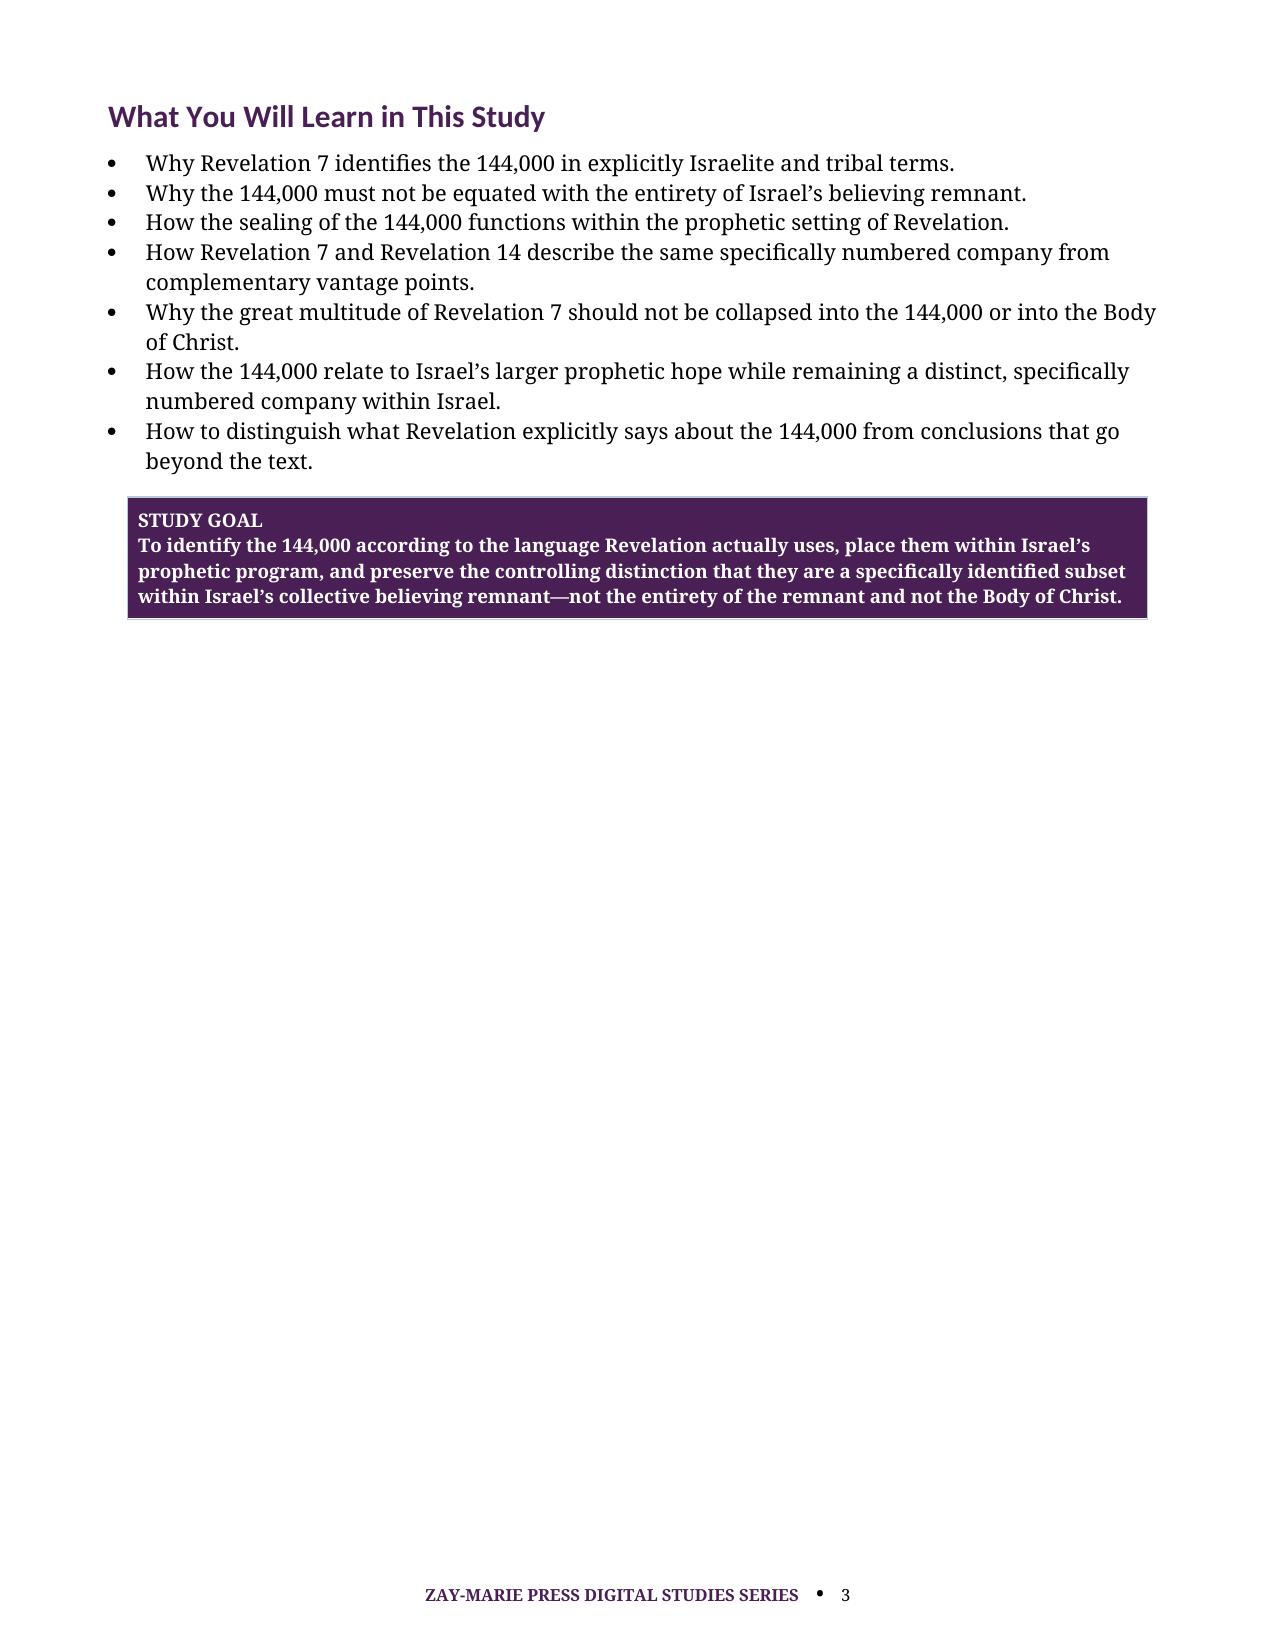
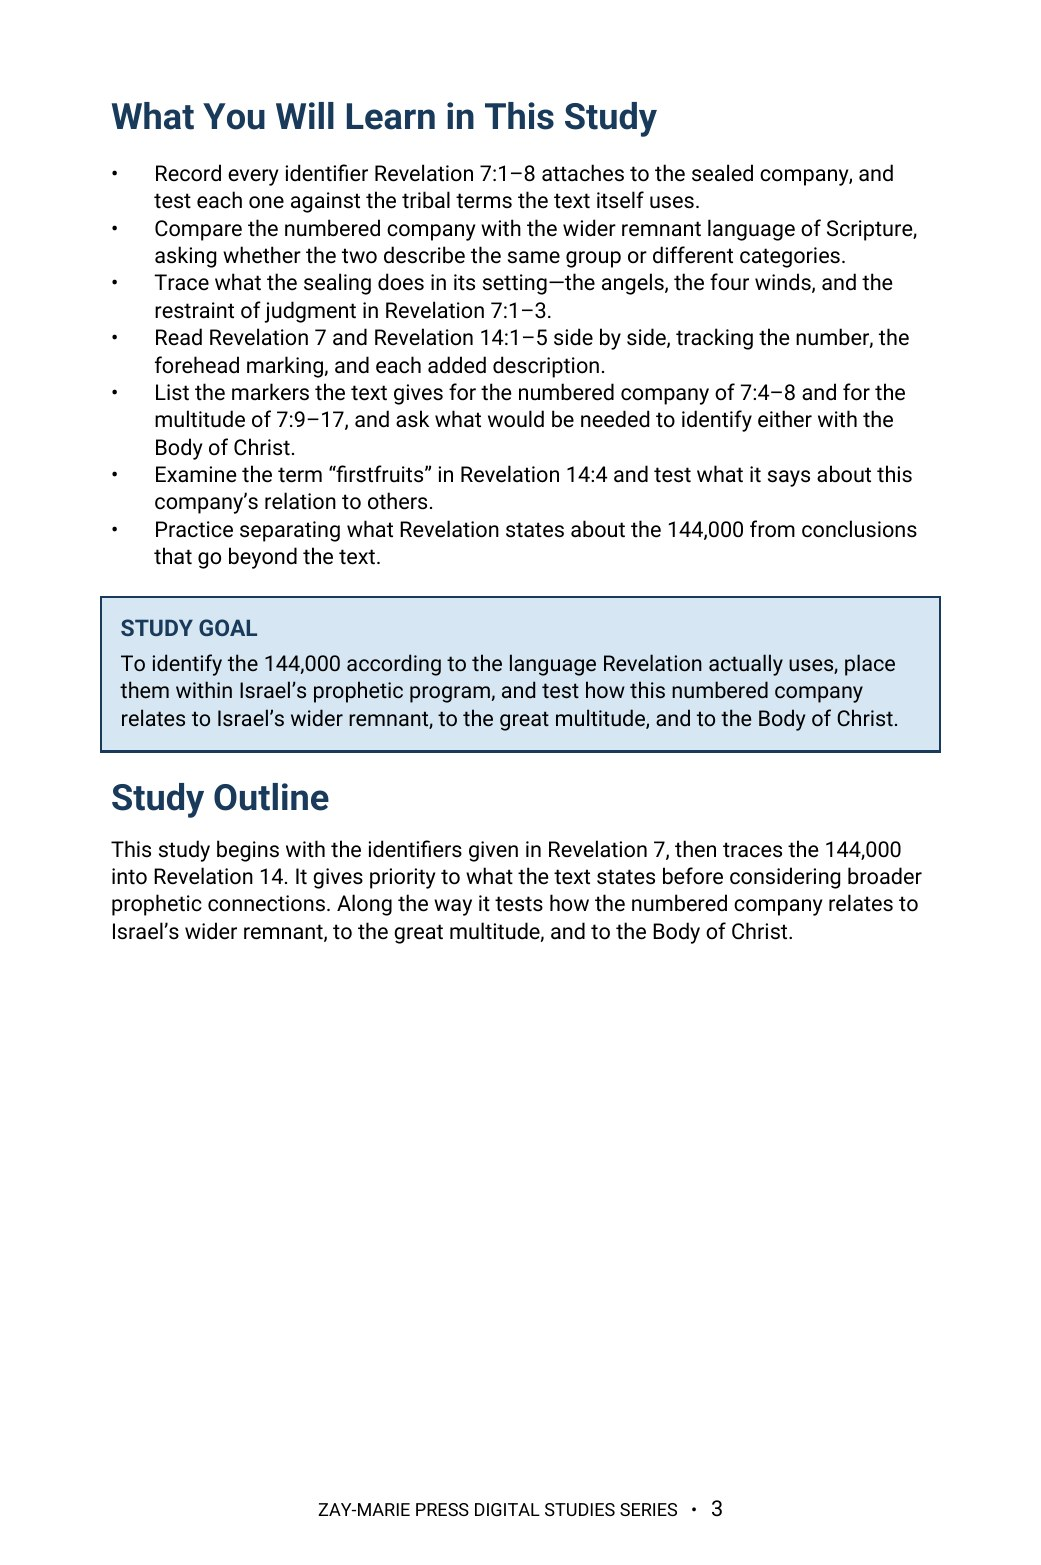
Study 23: Roboto rebuild, approved Study 61 pointer, website cover (jpg+webp), three previews, 16 pages; tracker v1.52
Claude-Session: https://claude.ai/code/session_01TLNFW47XCW6YAMUxScR3v4

Changed region(s): [[0.0922, 0.0613, 0.9222, 0.6134], [0.3074, 0.9508, 0.6455, 0.9815]]

diff --git a/study-23-the-144000.html b/study-23-the-144000.html
@@ -14,7 +14,7 @@
   <body class="study-detail-page">
     <header class="site-header"><div class="wrap nav"><a class="logo" href="index.html" aria-label="Zay-Marie Press home"><img src="assets/zay-marie-press-logo-hq.png" alt="Zay-Marie Press" width="420" height="238" /></a><button class="menu-toggle" type="button" aria-expanded="false" aria-controls="primary-nav">MENU</button><nav aria-label="Primary navigation" class="primary-nav" id="primary-nav"><a href="index.html">HOME</a><a href="books.html">BOOKS</a><a href="series.html">SERIES</a><a class="active" aria-current="page" href="digital-studies.html">DIGITAL STUDIES</a><a href="biblical-hermeneutics-course.html">COURSE</a><a href="about.html">ABOUT</a><a href="resources.html">RESOURCES</a><a href="contact.html">CONTACT</a></nav></div></header>
     <main>
-      <section class="detail-hero"><div class="wrap detail-hero-grid"><div class="detail-cover"><img src="assets/study-23-cover.jpg" alt="The 144,000 - Study 23 cover" /></div><div><div class="eyebrow">STUDY 23 · DIGITAL STUDY</div><h1>The 144,000</h1><p class="detail-subtitle">Israel’s Sealed Servants in God’s Prophetic Program</p><p class="detail-kicker">A Biblical Study of Revelation’s Tribal Identification, Sealing, and Distinct Companies</p><p class="detail-copy">Revelation identifies the 144,000 with unusual precision: a numbered company sealed from the tribes of the children of Israel. Their tribal identity, sealing, and later appearance with the Lamb belong within Israel’s prophetic program.</p><p class="detail-copy">This study follows Revelation 7 and 14 to distinguish the 144,000 from Israel’s larger believing remnant, the great multitude, and the Body of Christ. It lets Revelation’s own labels govern the conclusion.</p><div class="detail-buyline"><span class="detail-price">$5.99</span><span class="detail-format">Digital PDF · 15 Pages</span><span class="detail-button pending" aria-disabled="true">Checkout Coming Soon</span></div></div></div></section>
+      <section class="detail-hero"><div class="wrap detail-hero-grid"><div class="detail-cover"><picture><source srcset="assets/study-23-cover.webp" type="image/webp"><img src="assets/study-23-cover.jpg" alt="The 144,000 - Study 23 cover" /></picture></div><div><div class="eyebrow">STUDY 23 · DIGITAL STUDY</div><h1>The 144,000</h1><p class="detail-subtitle">Israel’s Sealed Servants in God’s Prophetic Program</p><p class="detail-kicker">A Biblical Study of Revelation’s Tribal Identification, Sealing, and Distinct Companies</p><p class="detail-copy">Revelation identifies the 144,000 with unusual precision: a numbered company sealed from the tribes of the children of Israel. Their tribal identity, sealing, and later appearance with the Lamb belong within Israel’s prophetic program.</p><p class="detail-copy">This study follows Revelation 7 and 14 to distinguish the 144,000 from Israel’s larger believing remnant, the great multitude, and the Body of Christ. It lets Revelation’s own labels govern the conclusion.</p><div class="detail-buyline"><span class="detail-price">$5.99</span><span class="detail-format">Digital PDF · 16 Pages</span><span class="detail-button pending" aria-disabled="true">Checkout Coming Soon</span></div></div></div></section>
       <section class="detail-section"><div class="wrap"><div class="eyebrow">ABOUT THIS STUDY</div><h2>Who Are the 144,000?</h2><p class="lead">The 144,000 are neither the entirety of Israel’s believing remnant nor a symbolic title for the Body of Christ. Revelation identifies them as a specific, numbered, sealed company from Israel’s tribes.</p><p class="lead">By tracing each explicit marker—tribes, number, seal, company, Lamb, Mount Sion, firstfruits, and faultlessness—the study preserves their place within Israel’s prophetic hope without assigning to them more than Scripture states.</p><p class="lead">This is not a study of Israel’s believing remnant generally, which Study 9 follows across her whole history, nor of Revelation’s seven churches and their own setting, which Study 26 examines first. Its task is narrower: to ask what a specific, numbered, sealed company can be shown to be from the text alone, and to keep that one company from absorbing every promise Scripture makes to a faithful Israelite.</p><div class="study-distinction"><h3>How These Studies Relate</h3><p>Study 23 identifies Revelation’s numbered, sealed Israelite company in chapters 7 and 14.</p><p><a href="study-09-the-remnant.html">Study 9 — The Remnant</a> Compare this specifically numbered tribal company with the wider believing remnant; this prevents one group from standing in for every faithful Israelite.</p><p><a href="study-26-the-seven-churches-of-revelation.html">Study 26 — The Seven Churches of Revelation</a> Read the earlier messages to Revelation’s seven assemblies in their own setting before connecting later scenes and groups in the book.</p><p><a href="study-61-revelation-12.html">Study 61 — Revelation 12</a> See this same numbered company appear as the male child of 12:5, caught up before the dragon can reach him.</p><p class="connection-guide-link"><a href="study-connections.html#study-23">Explore the full connection guide for Study 23 →</a></p></div></div></section>
       <section class="detail-section soft"><div class="wrap"><div class="eyebrow">WHAT YOU’LL STUDY</div><h2>Read Revelation’s Identification on Its Own Terms</h2><div class="study-points">
         <div class="study-point"><h3>Revelation’s Israelite Identification</h3><p>Start with Revelation 7:4, where the sealed company is identified in explicit Israelite and tribal language.</p></div>
@@ -36,10 +36,9 @@
       </div></div></section>
       <section class="detail-section"><div class="wrap"><div class="eyebrow">FROM THE STUDY</div><h2>Keep the Companies Distinct</h2><div class="excerpt"><blockquote>“The 144,000 are a specifically identified subset within Israel’s collective believing remnant—not the entirety of the remnant and not the Body of Christ.”</blockquote><p>Revelation gives a fixed total, repeats that same total in chapter 14, and treats the company as distinguishable from others in the vision.</p></div></div></section>
       <section class="detail-section soft"><div class="wrap"><div class="eyebrow">A LOOK INSIDE</div><h2>Preview the Study Before You Purchase</h2><p class="preview-instruction">Click any page to enlarge it for reading.</p><div class="preview-grid">
-        <div class="preview-card"><a class="preview-image-link" data-preview-lightbox href="assets/study-23-page-3.jpg"><img src="assets/study-23-page-3.jpg" alt="Study 23 interior preview — page 3, What You Will Learn in This Study" /></a><div class="page-no">Page 3</div><h3>What You Will Learn in This Study</h3><p>Begin with the governing questions and the textual distinctions that guide the study.</p></div>
-        <div class="preview-card"><a class="preview-image-link" data-preview-lightbox href="assets/study-23-page-5.jpg"><img src="assets/study-23-page-5.jpg" alt="Study 23 interior preview — page 5, Revelation calls them the children of Israel" /></a><div class="page-no">Page 5</div><h3>Revelation’s Israelite Identification</h3><p>See why the number and the named tribes establish the company’s identity.</p></div>
-        <div class="preview-card"><a class="preview-image-link" data-preview-lightbox href="assets/study-23-page-8.jpg"><img src="assets/study-23-page-8.jpg" alt="Study 23 interior preview — page 8, The 144,000 in biblical perspective" /></a><div class="page-no">Page 8</div><h3>Distinct Companies in Biblical Perspective</h3><p>Compare Israel’s believing remnant, the great multitude, and the Body of Christ.</p></div>
-        <div class="preview-card"><a class="preview-image-link" data-preview-lightbox href="assets/study-23-page-11.jpg"><img src="assets/study-23-page-11.jpg" alt="Study 23 interior preview — page 11, They follow the Lamb" /></a><div class="page-no">Page 11</div><h3>They Follow the Lamb</h3><p>Read Revelation 14’s description of this consecrated company and its loyalty to the Lamb.</p></div>
+        <div class="preview-card"><a class="preview-image-link" data-preview-lightbox href="assets/study-23-page-2.jpg"><img src="assets/study-23-page-2.jpg" alt="Study 23 interior preview — page 2, Table of Contents" /></a><div class="page-no">Page 2</div><h3>Table of Contents</h3><p>See the full path of the study, from the first identifiers in Revelation 7 to the final synthesis.</p></div>
+        <div class="preview-card"><a class="preview-image-link" data-preview-lightbox href="assets/study-23-page-3.jpg"><img src="assets/study-23-page-3.jpg" alt="Study 23 interior preview — page 3, What You Will Learn in This Study" /></a><div class="page-no">Page 3</div><h3>What You Will Learn in This Study</h3><p>Begin with the textual markers and interpretive disciplines the study will teach.</p></div>
+        <div class="preview-card"><a class="preview-image-link" data-preview-lightbox href="assets/study-23-page-10.jpg"><img src="assets/study-23-page-10.jpg" alt="Study 23 interior preview — page 10, the Father’s name, the new song, and purity" /></a><div class="page-no">Page 10</div><h3>Revelation 14 Description</h3><p>Read the characteristics Revelation 14 adds, one marker at a time.</p></div>
       </div></div></section>
       <section class="detail-section"><div class="wrap"><div class="eyebrow">WHAT’S INCLUDED</div><h2>A Focused Study Built for<br />Understanding and Teaching</h2><div class="includes-grid">
         <div class="include-item"><h3>Revelation 7 Examination</h3><p>Read the seal, number, and tribal list together to identify the 144,000 according to the text.</p></div>

diff --git a/site.js b/site.js
@@ -62,7 +62,7 @@ const resourceModal=document.querySelector('#resource-modal'), resourceModalTitl
 if(resourceModal&&resourceModalTriggers.length){const closeResourceModal=()=>{resourceModal.hidden=true;document.body.classList.remove('resource-modal-open');lastResourceTrigger?.focus();};resourceModalTriggers.forEach(trigger=>trigger.addEventListener('click',()=>{lastResourceTrigger=trigger;if(resourceModalTitle)resourceModalTitle.textContent=trigger.dataset.title||'Resource';if(resourceModalDescription)resourceModalDescription.textContent=trigger.dataset.description||'';if(resourceModalLink){resourceModalLink.href=trigger.dataset.href||'#';resourceModalLink.textContent=trigger.dataset.linkText||'OPEN RESOURCE';}resourceModal.hidden=false;document.body.classList.add('resource-modal-open');resourceModalClose?.focus();}));resourceModalClose?.addEventListener('click',closeResourceModal);resourceModal.addEventListener('click',e=>{if(e.target===resourceModal)closeResourceModal();});document.addEventListener('keydown',e=>{if(e.key==='Escape'&&!resourceModal.hidden)closeResourceModal();});}
 
 /* Display the verified final-PDF page count at the primary purchase decision point. */
-const digitalStudyPageCounts={1:14,2:14,3:18,4:18,5:16,6:16,7:16,8:16,9:16,10:23,11:15,12:14,13:18,14:15,15:16,16:16,17:18,18:18,19:16,20:16,21:16,22:16,23:15,24:13,25:13,26:17,27:15,28:14,29:13,30:17,31:17,32:14,33:15,34:16,35:15,36:15,37:15,38:16,39:16,40:15,41:15,42:15,43:17,44:15,45:15,46:15,47:16,48:15,49:14,50:14,51:15,52:15,53:15,54:15,55:16,56:16,61:16,62:16,63:16,64:16,65:16,66:16,67:16,68:16,69:16,70:16,71:16};
+const digitalStudyPageCounts={1:14,2:14,3:18,4:18,5:16,6:16,7:16,8:16,9:16,10:23,11:15,12:14,13:18,14:15,15:16,16:16,17:18,18:18,19:16,20:16,21:16,22:16,23:16,24:13,25:13,26:17,27:15,28:14,29:13,30:17,31:17,32:14,33:15,34:16,35:15,36:15,37:15,38:16,39:16,40:15,41:15,42:15,43:17,44:15,45:15,46:15,47:16,48:15,49:14,50:14,51:15,52:15,53:15,54:15,55:16,56:16,61:16,62:16,63:16,64:16,65:16,66:16,67:16,68:16,69:16,70:16,71:16};
 const digitalStudyMatch=window.location.pathname.match(/\/study-(\d+)-/i);
 const digitalStudyFormat=document.querySelector('.detail-hero .detail-format');
 if(digitalStudyMatch&&digitalStudyFormat){const studyNumber=Number(digitalStudyMatch[1]),pageCount=digitalStudyPageCounts[studyNumber];if(pageCount)digitalStudyFormat.textContent=`Digital PDF · ${pageCount} Pages`;}

diff --git a/controlling-documents/Digital_Studies_PAM_Audit_v1.52.md b/controlling-documents/Digital_Studies_PAM_Audit_v1.52.md
@@ -281,3 +281,4 @@ Study 15 PDF not yet supplied. Typography: none of Studies 2, 3, 6, 8 is in EB G
 - v1.49 (2026-10-01): Study 20 (Understanding Acts 2:38) read in full against the PAM and Framework from the publisher's PDF (13 pages; no DOCX): clear, no conflicts (Acts 2 as Prophecy/Kingdom setting with Joel 2, "Repent and be baptized" not Spirit baptism into the Body, Mystery from Acts 9 and not Pentecost per PAM Rule 4, Acts 9–28 overlap, Prophecy suspended at Acts 28). Silent points (Acts 3:19–21, remission of sins, "all that are afar off" in Acts 2:39) are reported as text only. The publisher approved the proposed additions: (1) Paul's water baptisms (Acts 16:15, 33; 18:8; 19:5; 1 Cor. 1:14–16) acknowledged at the end of the second paragraph of Section 10, from the Framework's water-baptism ruling (not denied; read within the Acts 9–28 concurrency; do not give Paul the Twelve's commission; do not make water baptism the Body's defining baptism); (2) "Kingdom entry" (PAM, Acts 2) added in Section 5; (3) the undefined "Seven Diagnostic Lenses" reworded to "seven lenses" with the seven listed. Rebuilt in Roboto to Master Standard v1.30: 16 pages (cover plus 15 interior; source was 12 interior); one KJV table added, "Joel 2:28–32 Beside Acts 2:16–21" (a second, "The Sermon in Order" for Acts 2:14–37, written and held back for length). Introduction starts on its own page; the Peter art kept on page 4. "What You Will Learn" rewritten as eight process bullets (six stated conclusions; §17), Study Goal reworded, Study Outline redrafted as process-only bullets, seven callouts reduced to five boxed (Study Goal, Interpretive Control, Do Not Weaken Peter's Words, Acts Overlap Principle, Final Study Control; Context Before Formula and Audience Control became bold run-ins), Roman-numeral Teaching Outline converted to bold group heads with bullets, TOC first with page numbers, standard imprint added, headings use the em dash. Category: Passages (already ruled), cover label PASSAGES. Cover: publisher-supplied image (686 x 1024) trimmed 3 px to 2:3 and scaled to 1024 x 1536; JPG and a new WebP (page now uses a picture element with the JPG fallback). Website: previews now Table of Contents p2, What You Will Learn p3, Introduction p4 (old p5 removed); page count 13 to 16 in site.js, hero line, What's Included card and buy panel text; the six "What You'll Study" points were left as audited in v1.1. Publisher approved ("i approve"); pushed.
 - v1.50 (2026-10-01): Study 21 (Israel's Judicial Blinding) read in full against the PAM and Framework from the publisher's PDF (14 pages, v25; no DOCX): clear, no conflicts (Acts 28 as the national judicial suspension of Israel's Prophecy administration, "suspended, not abolished"; Acts 9–28 overlap; Mystery continues beyond Acts 28; Acts 28 distinct from the local turns to the Gentiles; covenants not transferred to the Body). The publisher approved three additions, inserted as proposed: (1) Romans 11:25 classified as Prophecy Program content, Israel's future restoration, given during the Mystery administration, with the fulness of the Gentiles not the Body's fullness (end of Section 9, from the PAM and the Section 4 ruling); (2) the remnant of Romans 11:5 classified as Israel's believing remnant, the same as the Old Testament remnant, in the Prophecy Program, never Gentiles and not the Body by identity, ethnic-covenantal and not administrative, with believing Jews gathered into the Body during the Mystery administration and no separate prophetic remnant placed outside it (Section 8; PAM and the 2026-09-30 remnant ruling); (3) a sentence naming the local turns to the Gentiles (Acts 13:46; 18:6; 19:8–9) against the national pronouncement at Acts 28 (Section 12, Framework). Four source defects fixed with approval: a table cell cut off at "or future" now reads "or future fulfillment"; an orphan caption ("Romans 11:25 — Israel's blindness is national, partial, and bounded.") with no image removed; an empty-left-cell row in the Acts 28 table removed (Section 13 states the point); the old copyright line replaced with the standard imprint. Rebuilt in Roboto to Master Standard v1.30 from the PDF text: 16 pages (cover plus 15 interior, no added tables needed; two drafted KJV tables, "Isaiah 6:9–10 Beside Its New Testament Uses" and "Romans 11:25–29 Clause by Clause", written and held back, each about one page). "What You Will Learn" rewritten as eight process bullets (six stated conclusions; §17), Study Goal reworded, Study Outline kept as process bullets with two lines reworded, six callouts reduced to five boxed (Study Goal, Interpretive Control, Romans 11 Control, Acts 28 Boundary, Final Control; Overlap Control became a bold run-in), running header removed, Roman-numeral Teaching Outline converted to bold group heads with bullets, checkbox list turned into a Scripture-Tracing table (Roboto has no box glyph), curly quotes and en dashes normalized, TOC first with page numbers, headings use the em dash. Word-level comparison against the source shows only the intended changes. Category: Israel & Prophecy (already ruled), cover label ISRAEL & PROPHECY. Cover: the website cover, with the title "JUDICIAL BLINDING" reduced 25% and then a further 10% (to 67.5% of its original size, top edge and spacing to the subtitle kept; the subtitle moved up about 23 px) by the publisher's direction; JPG re-saved and a new WebP (page now uses a picture element with the JPG fallback). Website: previews cut from four cards to three (Table of Contents p2, What You Will Learn p3, Introduction p4); old p6, p8 and p11 images removed; page count 14 to 16 in site.js, the hero line, the What's Included card and the buy panel; the six "What You'll Study" points left as audited in v1.1. Publisher approved cover and content ("i approve of cover and content"); pushed.
 - v1.51 (2026-10-01): Study 22 (Prayer Under Grace) read against the PAM and Framework from the publisher's PDF (13 pages; no DOCX) and rebuilt to the Master Standard (Roboto, five boxed callouts, Slate Blue tables, TOC first, 16 pages). Approved additions: John 14 sentence in Section 5 (the Comforter is given to Israel's apostles, John 14:16–17, not the Body's indwelling doctrine; Prophecy Program per the Framework). Figure re-labelled at the publisher's direction: sub-heading "UNDER ISRAEL'S COVENANTS" (replacing "UNDER THE OLD COVENANT"); rest of the figure untouched (the row "Ethnic Israel under the Old Covenant" still reads "Old Covenant"). Cover: website cover kept, BODY OF CHRIST label, title "PRAYER UNDER GRACE" reduced 40% with the subtitle moved up and the background rebuilt cleanly; JPG + WebP. Website: three previews (pages 2 TOC, 3 What You Will Learn, 4 Introduction) replacing four old previews; page count 15 → 16 in site.js, hero, What's Included and buy panel. Publisher approved ("i approve").
+- v1.52 (2026-10-01): Study 23 (The 144,000) read in full against the PAM and Framework from the publisher's DOCX (14 pages): clear, no conflicts (144,000 as sealed servants from Israel's tribes and firstfruits; "the 144,000 ≠ the entire remnant" and the subset-within-the-remnant language match §XVII; the scattered/protected/repentant/sealed taxonomy is correctly called a synthesis; great multitude distinct; Prophecy/Israel distinct from Mystery/Body; PAM silent on Revelation, so the text is reported). Approved addition: one pointer sentence at the end of Section 8 — "Revelation 12:5 and 14:1–5 bear on the same company; that identification is traced in Study 61 and is not argued here." (Framework's male-child ruling is not argued in Study 23.) Rebuilt to the Master Standard (Roboto, five boxed callouts — Interpretive Restraint became a bold run-in, TOC first, flat-bullet Teaching Outline and Guided Further Study, standard imprint; 16 pages). What You Will Learn, Study Goal and Study Outline rewritten in process wording per §17 (the old Study Goal stated the conclusion). Website cover kept (ISRAEL & PROPHECY); JPG + WebP; three previews (pages 2 TOC, 3 What You Will Learn, 10 Revelation 14 description) replacing four; page count 15 → 16. Publisher approved ("i approve").
